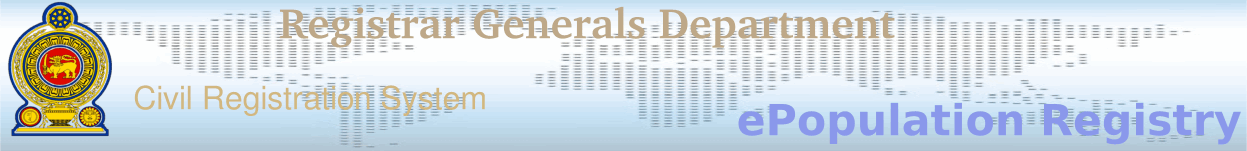
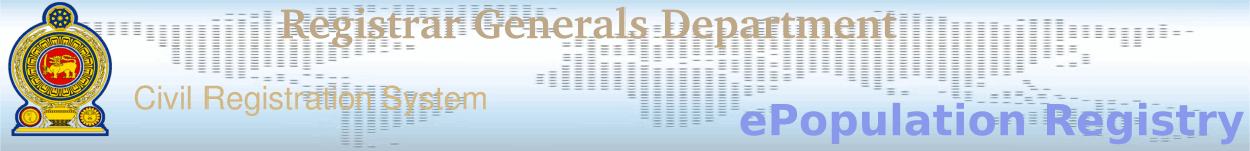
first step in converting to blue theme

diff --git a/src/main/webapp/css/layout.css b/src/main/webapp/css/layout.css
@@ -16,8 +16,8 @@ body {
 
 #layout-header {
     width: 1250px;
-    height: 155px;
-    background: url(../images/epr-header.png) no-repeat;
+    height: 151px;
+    background:url(../images/epr-header.png) no-repeat;
 }
 
 #layout-body {
@@ -38,7 +38,7 @@ body {
 }
 
 #body-content-title {
-    background:lightgoldenrodyellow url(../images/title-bg.png);
+    background: url(../images/title-bg-1.png) repeat-x;
     text-align: center;
     text-transform: uppercase;
     line-height: 25px;
